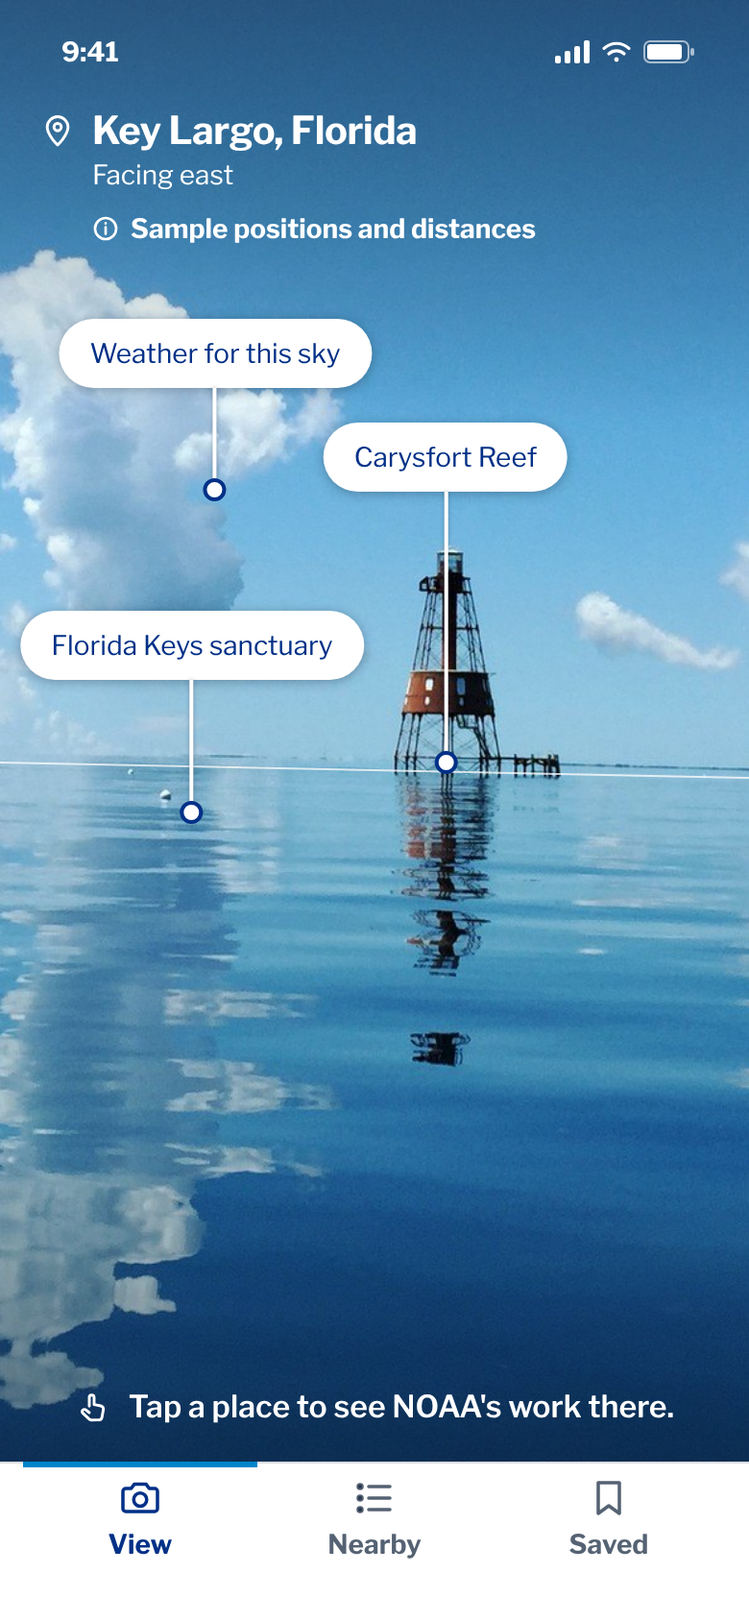
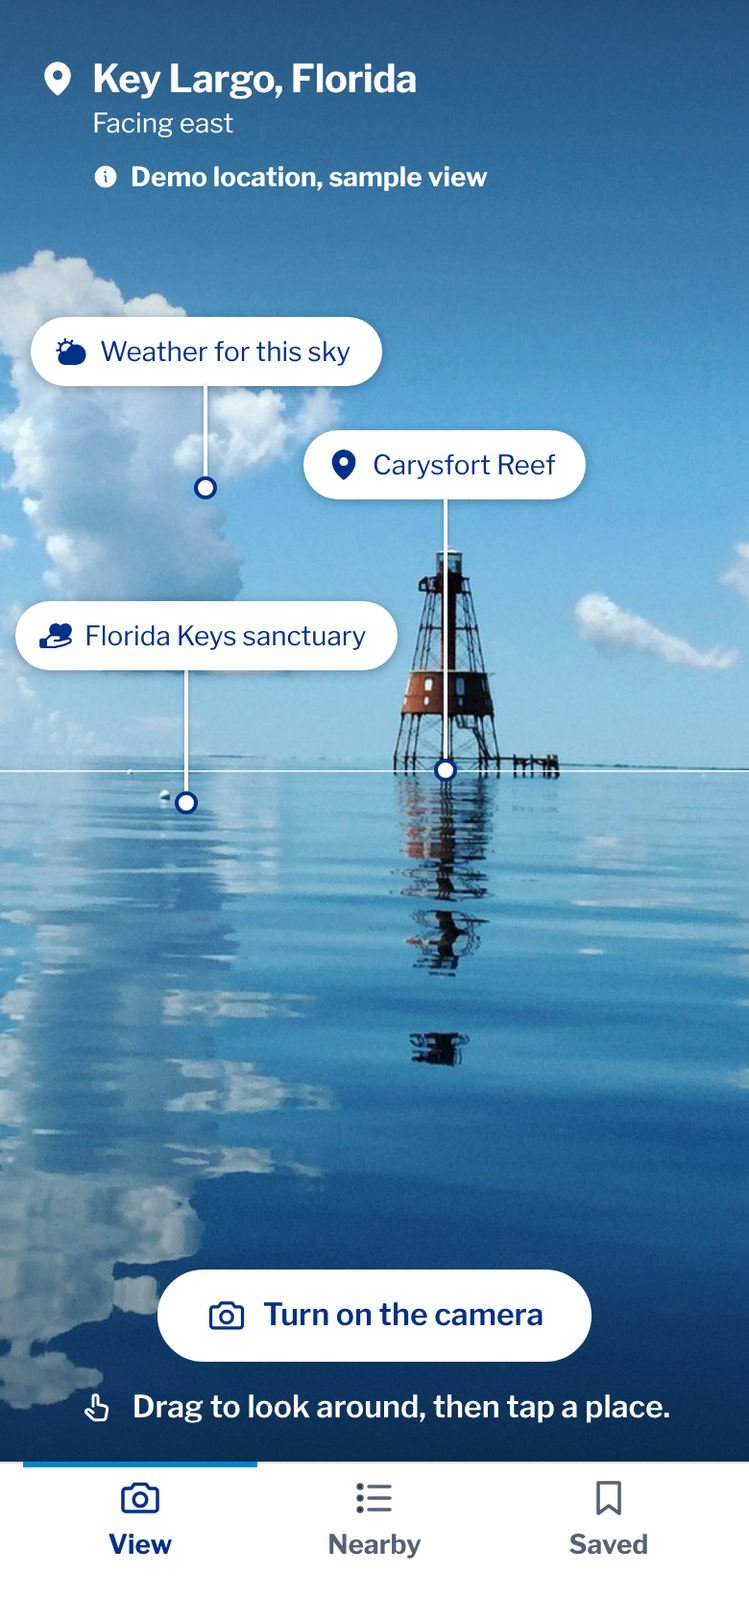
Horizon: a start screen, Nearby as cards, a photo of your horizon
Horizon now opens on a start screen instead of the Key Largo sample: what the
labels show, three steps, and why it asks for the camera, with Turn on the
camera and Try the sample view first. Nothing turns on until you choose. Nearby
follows the website's descent: a photo of your horizon where there is one, the
Sky on Atmospheric haze (the forecast, sunrise and sunset side by side, the
instruments) and the Sea on Deep ocean, each place on its own card. The Los
Angeles photo slot stays empty until a photo is sourced. The website's app
screenshot is the current sample view.

Claude-Session: https://claude.ai/code/session_01VtQuQ34UCohJdqjaP6mgAg

diff --git a/horizon/index.html b/horizon/index.html
@@ -56,6 +56,7 @@
   <section class="panel" id="nearby" hidden aria-labelledby="nb-t">
     <h1 id="nb-t" class="t-title" tabindex="-1">Nearby</h1>
     <p class="nb-sub t-meta" id="nb-sub">NOAA's work around Key Largo, Florida, the demo location</p>
+    <figure class="nb-photo" id="nb-photo" hidden><img alt=""><figcaption class="t-meta"></figcaption></figure>
     <div class="nb-groups" id="nb-list"></div>
     <p class="nb-state t-meta" id="nb-state" role="status" hidden></p>
     <button class="btn secondary nb-retry" type="button" id="nb-retry" hidden>Try again</button>
@@ -69,19 +70,37 @@
     <p class="sv-empty t-body" id="sv-empty" hidden>Nothing saved yet. Open a place and tap Save to keep it here.</p>
   </section>
 
-  <section class="sheet intro" id="intro" hidden aria-labelledby="in-t">
-    <div class="grab"></div>
-    <h2 id="in-t" class="t-title" tabindex="-1">See NOAA's work on your horizon</h2>
-    <p class="in-text t-body">Hold your phone up to the sky or the sea. Labels show the forecast, weather stations, radar, tides, marine sanctuaries and the sun, each in its real direction.</p>
-    <p class="in-note t-meta">Horizon asks for your camera and location only when you turn the camera on.</p>
-    <button class="btn" type="button" id="intro-go">Start looking</button>
-  </section>
-
   <nav class="tabs" aria-label="Horizon">
     <a href="index.html" id="tab-view" aria-current="page"><svg viewBox="0 0 24 24" fill="none" stroke="currentColor" stroke-width="1.75" stroke-linejoin="round" aria-hidden="true"><path d="M3 8.5A1.5 1.5 0 0 1 4.5 7h2.8l1.6-2.2h6.2L16.7 7h2.8A1.5 1.5 0 0 1 21 8.5v9A1.5 1.5 0 0 1 19.5 19h-15A1.5 1.5 0 0 1 3 17.5z"/><circle cx="12" cy="12.8" r="3.4"/></svg>View</a>
     <a href="#nearby" id="tab-nearby"><svg viewBox="0 0 24 24" fill="none" stroke="currentColor" stroke-width="1.75" stroke-linecap="round" aria-hidden="true"><path d="M9 6h11M9 12h11M9 18h11"/><circle cx="4.5" cy="6" r="1" fill="currentColor"/><circle cx="4.5" cy="12" r="1" fill="currentColor"/><circle cx="4.5" cy="18" r="1" fill="currentColor"/></svg>Nearby</a>
     <a href="#saved" id="tab-saved"><svg viewBox="0 0 24 24" fill="none" stroke="currentColor" stroke-width="1.75" stroke-linejoin="round" aria-hidden="true"><path d="M6.5 4h11v16l-5.5-4-5.5 4z"/></svg>Saved</a>
   </nav>
+  <!-- The start screen: what Horizon does and why it asks for the camera, before anything turns on -->
+  <section class="start" id="intro" hidden aria-labelledby="in-t">
+    <div class="st-scene" aria-hidden="true">
+      <svg class="st-art" viewBox="0 0 390 250" preserveAspectRatio="xMidYMax slice" aria-hidden="true" focusable="false"><rect width="390" height="170" fill="#DCEBF5"/><rect y="170" width="390" height="80" fill="#003087"/><g transform="translate(286 170) scale(0.36)"><path d="M-62 0 L-26 -226" fill="none" stroke="#003087" stroke-width="1.5" stroke-linecap="round" stroke-linejoin="round" vector-effect="non-scaling-stroke"/><path d="M62 0 L26 -226" fill="none" stroke="#003087" stroke-width="1.5" stroke-linecap="round" stroke-linejoin="round" vector-effect="non-scaling-stroke"/><path d="M-62 0 L46.1 -100M62 0 L-46.1 -100" fill="none" stroke="#003087" stroke-width="1" stroke-linecap="round" stroke-linejoin="round" vector-effect="non-scaling-stroke"/><path d="M-46.1 -100 L26 -226M46.1 -100 L-26 -226" fill="none" stroke="#003087" stroke-width="1" stroke-linecap="round" stroke-linejoin="round" vector-effect="non-scaling-stroke"/><rect x="-34" y="-184" width="68" height="34" fill="#FFFFFF" stroke="#003087" stroke-width="1.4" vector-effect="non-scaling-stroke"/><path d="M-42 -184 L42 -184" fill="none" stroke="#003087" stroke-width="1.5" stroke-linecap="round" stroke-linejoin="round" vector-effect="non-scaling-stroke"/><path d="M-36 -226 L36 -226" fill="none" stroke="#003087" stroke-width="1.5" stroke-linecap="round" stroke-linejoin="round" vector-effect="non-scaling-stroke"/><rect x="-14" y="-256" width="28" height="30" fill="#003087"/><path d="M-16 -256Q0 -276 16 -256Z" fill="#FFFFFF" stroke="#003087" stroke-width="1.2" stroke-linecap="round" stroke-linejoin="round" vector-effect="non-scaling-stroke"/><path d="M-62 0 L-68 52M0 0 L0 52M62 0 L68 52" fill="none" stroke="#FFFFFF" stroke-width="1.2" stroke-linecap="round" stroke-linejoin="round" vector-effect="non-scaling-stroke"/></g><g transform="translate(100 170) scale(0.44)"><g transform="translate(-191.2 -196.2) scale(3.0)"><path stroke-width=".28691463" stroke-linecap="round" stroke-linejoin="round" fill="none" stroke="#003087" d="M38.55 59.7 38.603956 59.42531 38.76559 59.15179 39.03421 58.88062 39.40867 58.61296 39.88736 58.349954 40.468236 58.09273 41.148809 57.84239 41.92616 57.6 42.796968 57.366605 43.757497 57.143205 44.80364 56.930749 45.93091 56.730154 47.134489 56.542276 48.40921 56.367918 49.74963 56.20783 51.15 56.062696 52.604326 55.933137 54.106378 55.819707 55.649728 55.722894 57.22776 55.643114 58.833726 55.5807 60.46074 55.53593 62.10184 55.50899 63.75 55.5 65.398159 55.50899 67.03926 55.53593 68.666278 55.5807 70.27224 55.643114 71.85027 55.722894 73.39362 55.819707 74.895679 55.933137 76.35 56.062696 77.75037 56.20783 79.09079 56.367918 80.36552 56.542276 81.56909 56.730154 82.696369 56.930749 83.74251 57.143205 84.70303 57.366605 85.57384 57.6 86.3512 57.84239 87.03176 58.09273 87.61264 58.349954 88.09133 58.61296 88.46579 58.88062 88.73441 59.15179 88.89604 59.42531 88.95 59.7"/><path stroke-width=".38938413" stroke-linecap="round" stroke-linejoin="round" fill="none" stroke="#003087" d="M88.95 59.7 88.89604 59.974695 88.73441 60.24821 88.46579 60.51938 88.09133 60.78704 87.61264 61.050046 87.03176 61.30727 86.3512 61.557615 85.57384 61.8 84.70303 62.033395 83.74251 62.256799 82.696369 62.469255 81.56909 62.66985 80.36552 62.857728 79.09079 63.032087 77.75037 63.192174 76.35 63.337308 74.895679 63.466867 73.39362 63.580297 71.85027 63.677106 70.27224 63.75689 68.666278 63.819299 67.03926 63.864068 65.398159 63.891008 63.75 63.9 62.10184 63.891008 60.46074 63.864068 58.833726 63.819299 57.22776 63.75689 55.649728 63.677106 54.106378 63.580297 52.604326 63.466867 51.15 63.337308 49.74963 63.192174 48.40921 63.032087 47.134489 62.857728 45.93091 62.66985 44.80364 62.469255 43.757497 62.256799 42.796968 62.033395 41.92616 61.8 41.148809 61.557615 40.468236 61.30727 39.88736 61.050046 39.40867 60.78704 39.03421 60.51938 38.76559 60.24821 38.603956 59.974695 38.55 59.7"/><path stroke-width=".20493903" stroke-linecap="round" stroke-linejoin="round" fill="none" stroke="#003087" d="M88.70476 61.964529 88.451389 62.211359 88.1102 62.455236 87.68242 62.69529 87.169559 62.930665 86.57344 63.16053 85.896198 63.384069 85.14021 63.60048 84.30819 63.808996 83.40309 64.00888 82.42812 64.19942 81.38675 64.37993 80.282688 64.54978 79.11985 64.70836 77.902378 64.85511 76.63458 64.98951 75.32099 65.11107 73.96627 65.21937 72.575229 65.314029 71.15281 65.39469 69.70408 65.46108 68.23418 65.51297 66.74834 65.55016 65.25184 65.57253 63.75 65.58 62.24816 65.57253 60.751665 65.55016 59.265825 65.51297 57.795927 65.46108 56.34719 65.39469 54.924776 65.314029 53.53373 65.21937 52.179006 65.11107 50.865415 64.98951 49.597627 64.85511 48.38015 64.70836 47.21731 64.54978 46.113248 64.37993 45.07188 64.19942 44.096914 64.00888 43.191808 63.808996 42.359788 63.60048 41.60381 63.384069 40.92656 63.16053 40.33044 62.930665 39.81758 62.69529 39.3898 62.455236 39.048616 62.211359 38.795248 61.964529"/><path stroke-width=".43037195" stroke-linecap="round" stroke-linejoin="round" fill="none" stroke="#003087" d="M38.55 59.7 38.97 65.37"/><path stroke-width=".63531097" stroke-linecap="round" stroke-linejoin="round" fill="none" stroke="#003087" d="M88.95 59.7 88.53 65.37"/><path stroke-width=".43037195" stroke-linecap="round" stroke-linejoin="round" fill="none" stroke="#003087" d="M63.75 69.57 62.93922 69.56775 62.12931 69.561008 61.321138 69.549777 60.51556 69.534069 59.71345 69.5139 58.91566 69.489299 58.12305 69.46028 57.336465 69.42689 56.556749 69.38915 55.78473 69.34711 55.021245 69.300807 54.267107 69.2503 53.52312 69.195629 52.790086 69.13686 52.06879 69.074069 51.36 69.00731 50.66448 68.936649 49.98297 68.862178 49.316205 68.78396 48.66489 68.70209 48.029737 68.616649 47.41141 68.527729 46.81058 68.43543 46.227895 68.33985 45.663969 68.24109 45.11941 68.13925 44.594804 68.034458 44.090707 67.926799 43.60766 67.81641 43.146184 67.70339 42.706769 67.58788 42.28989 67.47 41.895994 67.34987 41.525495 67.227619 41.178796 67.10337 40.856267 66.97727 40.55825 66.84945 40.285074 66.72005 40.037019 66.589199 39.814359 66.45704 39.61733 66.32372 39.44614 66.18938 39.30098 66.05416 39.181997 65.91821 39.08932 65.78167 39.023057 65.64469 38.98327 65.50742 38.97 65.37"/><path stroke-width=".63531097" stroke-linecap="round" stroke-linejoin="round" fill="none" stroke="#003087" d="M88.53 65.37 88.51673 65.50742 88.476947 65.64469 88.410678 65.78167 88.318 65.91821 88.19902 66.05416 88.053859 66.18938 87.882678 66.32372 87.68564 66.45704 87.46298 66.589199 87.21493 66.72005 86.94175 66.84945 86.64374 66.97727 86.321208 67.10337 85.97451 67.227619 85.60401 67.34987 85.210109 67.47 84.79323 67.58788 84.35382 67.70339 83.89234 67.81641 83.409297 67.926799 82.9052 68.034458 82.38059 68.13925 81.83603 68.24109 81.2721 68.33985 80.689418 68.43543 80.08859 68.527729 79.47027 68.616649 78.835109 68.70209 78.1838 68.78396 77.51703 68.862178 76.83552 68.936649 76.14 69.00731 75.43121 69.074069 74.709918 69.13686 73.97688 69.195629 73.232898 69.2503 72.47876 69.300807 71.71527 69.34711 70.94325 69.38915 70.163539 69.42689 69.37695 69.46028 68.584339 69.489299 67.78655 69.5139 66.984439 69.534069 66.17886 69.549777 65.37069 69.561008 64.560779 69.56775 63.75 69.57"/><path stroke-width=".20493903" stroke-linecap="round" stroke-linejoin="round" fill="none" stroke="#003087" d="M82.125 64.88421V67.557888"/><path stroke-width=".20493903" stroke-linecap="round" stroke-linejoin="round" fill="none" stroke="#003087" d="M84.54 64.38356V67.02546"/><path stroke-width=".20493903" stroke-linecap="round" stroke-linejoin="round" fill="none" stroke="#003087" d="M86.64 63.766637V66.3488"/><path stroke-width=".43037195" stroke-linecap="round" stroke-linejoin="round" fill="none" stroke="#003087" d="M56.61 58.23 61.23 30.3"/><path stroke-width=".63531097" stroke-linecap="round" stroke-linejoin="round" fill="none" stroke="#003087" d="M71.52 58.44 66.585 30.3"/><path stroke-width=".38938413" stroke-linecap="round" stroke-linejoin="round" fill="none" stroke="#003087" d="M64.695 60.75 64.1175 30.93"/><path stroke-width=".28691463" stroke-linecap="round" stroke-linejoin="round" fill="none" stroke="#003087" d="M57.06158 55.5 64.61366 56.55 71.0044 55.5"/><path stroke-width=".28691463" stroke-linecap="round" stroke-linejoin="round" fill="none" stroke="#003087" d="M59.753686 39.225 64.29848 40.275 68.15021 39.225"/><path stroke-width=".20493903" stroke-linecap="round" stroke-linejoin="round" fill="none" stroke="#003087" d="M59.753686 39.225 64.13783 31.98"/><path stroke-width=".20493903" stroke-linecap="round" stroke-linejoin="round" fill="none" stroke="#003087" d="M64.29848 40.275 61.12579 30.93"/><path stroke-width=".20493903" stroke-linecap="round" stroke-linejoin="round" fill="none" stroke="#003087" d="M64.278148 39.225 66.69549 30.93"/><path stroke-width=".20493903" stroke-linecap="round" stroke-linejoin="round" fill="none" stroke="#003087" d="M68.15021 39.225 64.1175 30.93"/><path stroke-width=".28691463" stroke-linecap="round" stroke-linejoin="round" fill="none" stroke="#003087" d="M57.899606 53.925 64.00566 54.975 63.75148 41.85 60.07066 40.8 57.899606 53.925"/><path stroke-width=".20493903" stroke-linecap="round" stroke-linejoin="round" fill="none" stroke="#003087" d="M58.62329 49.55 63.920934 50.6"/><path stroke-width=".20493903" stroke-linecap="round" stroke-linejoin="round" fill="none" stroke="#003087" d="M59.346975 45.175 63.836206 46.225"/><path stroke-width=".20493903" stroke-linecap="round" stroke-linejoin="round" fill="none" stroke="#003087" d="M60.952634 54.45 61.911069 41.325"/><path stroke-width=".38938413" stroke-linecap="round" stroke-linejoin="round" fill="none" stroke="#003087" d="M65.16066 54.975 70.15069 53.925 67.848918 40.8 64.90648 41.85 65.16066 54.975"/><path stroke-width=".20493903" stroke-linecap="round" stroke-linejoin="round" fill="none" stroke="#003087" d="M65.075939 50.6 69.38343 49.55"/><path stroke-width=".20493903" stroke-linecap="round" stroke-linejoin="round" fill="none" stroke="#003087" d="M64.9912 46.225 68.61617 45.175"/><path stroke-width=".20493903" stroke-linecap="round" stroke-linejoin="round" fill="none" stroke="#003087" d="M67.65568 54.45 66.3777 41.325"/><path stroke-width=".38938413" stroke-linecap="round" stroke-linejoin="round" fill="none" stroke="#003087" d="M67.4775 30.3 67.44696 30.423348 67.35586 30.544585 67.20575 30.661637 66.999217 30.7725 66.73977 30.87528 66.43187 30.968216 66.08078 31.049719 65.6925 31.118395 65.27368 31.173068 64.83148 31.2128 64.37348 31.236916 63.9075 31.245 63.44152 31.236916 62.983518 31.2128 62.54132 31.173068 62.1225 31.118395 61.734224 31.049719 61.38313 30.968216 61.07523 30.87528 60.81579 30.7725 60.60925 30.661637 60.459146 30.544585 60.368043 30.423348 60.3375 30.3 60.368043 30.176653 60.459146 30.055417 60.60925 29.938364 60.81579 29.8275 61.07523 29.72472 61.38313 29.631785 61.734224 29.550282 62.1225 29.481606 62.54132 29.426934 62.983518 29.3872 63.44152 29.363085 63.9075 29.355 64.37348 29.363085 64.83148 29.3872 65.27368 29.426934 65.6925 29.481606 66.08078 29.550282 66.43187 29.631785 66.73977 29.72472 66.999217 29.8275 67.20575 29.938364 67.35586 30.055417 67.44696 30.176653 67.4775 30.3"/><path stroke-width=".38938413" stroke-linecap="round" stroke-linejoin="round" fill="none" stroke="#003087" d="M63.9075 29.355V26.94"/><path stroke-width=".38938413" stroke-linecap="round" stroke-linejoin="round" fill="none" stroke="#003087" d="M54.09 27.465 73.83 26.415"/><path stroke-width=".28691463" stroke-linecap="round" stroke-linejoin="round" fill="none" stroke="#003087" d="M54.72 27.4335V23.8635"/><path stroke-width=".28691463" stroke-linecap="round" stroke-linejoin="round" fill="none" stroke="#003087" d="M51.99 23.0235C52.27 22.94475 52.935 22.586 53.67 22.551 54.405 22.516 55.84 22.73475 56.4 22.8135 56.96 22.89225 56.925 22.9885 57.03 23.0235"/><path stroke-width=".28691463" stroke-linecap="round" stroke-linejoin="round" fill="none" stroke="#003087" d="M51.99 23.0235C52.27 23.10225 52.935 23.461 53.67 23.496 54.405 23.531 55.84 23.31225 56.4 23.2335 56.96 23.15475 56.925 23.0585 57.03 23.0235"/><path stroke-width=".20493903" stroke-linecap="round" stroke-linejoin="round" fill="none" stroke="#003087" d="M57.03 23.0235 58.71 21.3435 58.815 23.9685 57.03 23.0235"/><path stroke-width=".20493903" stroke-linecap="round" stroke-linejoin="round" fill="none" stroke="#003087" d="M52.1475 23.0235 52.1314 23.539845 52.084199 24.021 52.00911 24.434178 51.91125 24.75122 51.79729 24.950522 51.675 25.0185 51.552709 24.950522 51.43875 24.75122 51.340894 24.434178 51.265806 24.021 51.2186 23.539845 51.2025 23.0235 51.2186 22.507157 51.265806 22.026 51.340894 21.612822 51.43875 21.29578 51.552709 21.096478 51.675 21.0285 51.79729 21.096478 51.91125 21.29578 52.00911 21.612822 52.084199 22.026 52.1314 22.507157 52.1475 23.0235"/><path stroke-width=".28691463" stroke-linecap="round" stroke-linejoin="round" fill="none" stroke="#003087" d="M73.2 26.4465V22.8765"/><path stroke-width=".28691463" stroke-linecap="round" stroke-linejoin="round" fill="none" stroke="#003087" d="M70.47 22.0365C70.75 21.95775 71.415 21.599 72.15 21.564 72.885 21.529 74.32 21.74775 74.88 21.8265 75.44 21.90525 75.405 22.0015 75.51 22.0365"/><path stroke-width=".28691463" stroke-linecap="round" stroke-linejoin="round" fill="none" stroke="#003087" d="M70.47 22.0365C70.75 22.11525 71.415 22.474 72.15 22.509 72.885 22.544 74.32 22.32525 74.88 22.2465 75.44 22.16775 75.405 22.0715 75.51 22.0365"/><path stroke-width=".20493903" stroke-linecap="round" stroke-linejoin="round" fill="none" stroke="#003087" d="M75.51 22.0365 77.19 20.3565 77.295 22.9815 75.51 22.0365"/><path stroke-width=".20493903" stroke-linecap="round" stroke-linejoin="round" fill="none" stroke="#003087" d="M70.6275 22.0365 70.6114 22.552844 70.56419 23.034 70.489109 23.447178 70.39125 23.764222 70.27729 23.963522 70.155 24.0315 70.03271 23.963522 69.91875 23.764222 69.82089 23.447178 69.745807 23.034 69.6986 22.552844 69.6825 22.0365 69.6986 21.520157 69.745807 21.039 69.82089 20.625823 69.91875 20.308779 70.03271 20.109478 70.155 20.0415 70.27729 20.109478 70.39125 20.308779 70.489109 20.625823 70.56419 21.039 70.6114 21.520157 70.6275 22.0365"/><path stroke-width=".28691463" stroke-linecap="round" stroke-linejoin="round" fill="none" stroke="#003087" d="M63.9075 26.94V21.48"/><path stroke-width=".28691463" stroke-linecap="round" stroke-linejoin="round" fill="none" stroke="#003087" d="M62.7 21.48V18.75H65.115V21.48H62.7"/><path d="M64.6425 20.0625C64.6425 20.5875 64.3975 20.85 63.9075 20.85 63.4175 20.85 63.1725 20.5875 63.1725 20.0625 63.1725 19.5375 63.4175 19.275 63.9075 19.275 64.3975 19.275 64.6425 19.5375 64.6425 20.0625Z" fill="#003087"/><path stroke-width=".28691463" stroke-linecap="round" stroke-linejoin="round" fill="none" stroke="#003087" d="M62.7 18.75 62.7232 18.545155 62.791917 18.348183 62.9035 18.16665 63.05367 18.007538 63.23665 17.876957 63.445409 17.779927 63.67193 17.720175 63.9075 17.7 64.143077 17.720175 64.36959 17.779927 64.578357 17.876957 64.76133 18.007538 64.9115 18.16665 65.02309 18.348183 65.0918 18.545155 65.115 18.75"/></g></g></svg>
+      <span class="st-mk" style="--x: 40%; --y: 26px"><span class="pill t-meta" data-icon="weather">Weather for this sky</span><span class="lead" style="height: 44px"></span><span class="dot"></span></span>
+      <span class="st-mk" style="--x: 25.6%; --y: 74px"><span class="pill t-meta" data-icon="tide">Tides</span><span class="lead" style="height: 18px"></span><span class="dot"></span></span>
+      <span class="st-mk" style="--x: 52%; --y: 112px"><span class="pill t-meta" data-icon="care">Marine sanctuary</span><span class="lead" style="height: 20px"></span><span class="dot"></span></span>
+    </div>
+    <div class="st-body">
+      <h1 id="in-t" class="t-title" tabindex="-1">See NOAA's work on your horizon</h1>
+      <ol class="st-steps">
+        <li><span class="n">1</span><span class="t-body">Hold your phone up to the sky or the sea.</span></li>
+        <li><span class="n">2</span><span class="t-body">Labels show NOAA's work in that direction: the forecast, tides, sanctuaries and the sun.</span></li>
+        <li><span class="n">3</span><span class="t-body">Tap a label to see what NOAA does there.</span></li>
+      </ol>
+      <div class="st-why">
+        <h2 class="t-body b">Why the camera?</h2>
+        <p class="t-meta">Horizon puts each label over what your camera sees, where the place really is. The video stays on your phone. Your location finds the forecast, tides and sanctuary nearest you.</p>
+      </div>
+      <div class="st-acts">
+        <button class="btn" type="button" id="intro-go"><svg viewBox="0 0 24 24" fill="none" stroke="currentColor" stroke-width="1.75" stroke-linejoin="round" aria-hidden="true"><path d="M3 8.5A1.5 1.5 0 0 1 4.5 7h2.8l1.6-2.2h6.2L16.7 7h2.8A1.5 1.5 0 0 1 21 8.5v9A1.5 1.5 0 0 1 19.5 19h-15A1.5 1.5 0 0 1 3 17.5z"/><circle cx="12" cy="12.8" r="3.4"/></svg>Turn on the camera</button>
+        <button class="btn secondary" type="button" id="intro-sample">Try the sample view first</button>
+      </div>
+      <p class="st-small t-meta">Student concept, not an official NOAA app.</p>
+    </div>
+  </section>
 </div>
 
 <template id="tpl-carysfort-reef">

diff --git a/horizon/app.js b/horizon/app.js
@@ -379,7 +379,7 @@
     } catch (_) { /* outside the NWS area: keep the coordinates */ }
   }
 
-  startBtn.addEventListener('click', async () => {
+  async function turnOn() {
     const DOE = window.DeviceOrientationEvent;
     const motion = DOE && typeof DOE.requestPermission === 'function'
       ? DOE.requestPermission().catch(() => 'denied')
@@ -393,7 +393,8 @@
     }
     await motion;
     setTimeout(updateText, 1500);
-  });
+  }
+  startBtn.addEventListener('click', turnOn);
 
   // Look around by dragging (sample view, or a camera without a compass).
   screen.addEventListener('pointerdown', (e) => {
@@ -596,71 +597,122 @@
     li.append(b);
     return li;
   }
+  // One Nearby card: the same parts as a row, on its own white card.
+  function card(id, p, title, line, live, { face = true, big = false } = {}) {
+    const li = row(id, p, title, line, live, face);
+    const b = li.querySelector('button');
+    b.className = `nc${big ? ' big' : ''}${iconName(id, p) === 'alert' ? ' is-alert' : ''}`;
+    return li;
+  }
+  // Sunrise and sunset share one card: two halves, each opening its own preview.
+  function sunPair(ids) {
+    const li = document.createElement('li');
+    const pair = document.createElement('div');
+    pair.className = 'nc-pair';
+    for (const id of ids) {
+      const p = PLACES[id];
+      const half = row(id, p, p.name, `${capital(dayWord(p.at, S.tz))}, toward the ${G.dir8(p.bearing)}`, clock(p.at, S.tz)).querySelector('button');
+      half.className = 'nc';
+      pair.append(half);
+    }
+    li.append(pair);
+    return li;
+  }
   function setLive(li, text) {
     const n = li.querySelector('.now');
     if (n) n.textContent = text;
   }
 
-  // A titled group of rows: Weather alerts, Sky, Sea, Instruments.
-  function group(key, title, note, rows, extra) {
-    if (!rows.length && !extra) return null;
+  // A section of Nearby: Weather alerts, then the Sky on Atmospheric haze, then the Sea on Deep ocean.
+  function group(key, title, note, cards, extra) {
+    if (!cards.length && !extra) return null;
     const sec = document.createElement('section');
-    sec.className = 'nb-group';
+    sec.className = 'nb-sec';
     sec.dataset.group = key;
-    sec.innerHTML = `<h2 class="nb-h t-row"></h2>${note ? '<p class="nb-note t-meta"></p>' : ''}${rows.length ? '<ul class="nb-rows"></ul>' : ''}`;
+    sec.innerHTML = `<h2 class="nb-h t-title"></h2>${note ? '<p class="nb-note t-meta"></p>' : ''}${cards.length ? '<ul class="nb-cards"></ul>' : ''}`;
     sec.querySelector('h2').textContent = title;
     if (note) sec.querySelector('.nb-note').textContent = note;
-    if (rows.length) sec.querySelector('ul').append(...rows);
-    if (extra) sec.append(extra);
+    if (cards.length) sec.querySelector('ul').append(...cards);
+    if (extra) sec.append(...[].concat(extra));
     return sec;
+  }
+  // A photo of the horizon where you are, when there is one: the demo spot, and Los Angeles.
+  const LOCAL = [
+    { lat: DEMO.lat, lon: DEMO.lon, radius: 40, src: '../images/carysfort-lighthouse.jpg', alt: 'A calm sea with Carysfort Lighthouse on the horizon', cap: 'Your horizon from Key Largo, facing east. Photo: Nancy Diersing/NOAA' },
+    { lat: 34.05, lon: -118.25, radius: 60, src: '../images/local/los-angeles-horizon.jpg', alt: 'The sea off Los Angeles', cap: 'Your horizon: the sea off Los Angeles.' },
+  ];
+  const nbPhoto = $('#nb-photo');
+  function showLocalPhoto(v) {
+    const L = LOCAL.find((x) => G.miles(v, x) <= x.radius);
+    const img = nbPhoto.querySelector('img');
+    if (!L) { nbPhoto.hidden = true; img.removeAttribute('src'); return; }
+    if (img.getAttribute('src') === L.src) return;
+    nbPhoto.hidden = true;
+    img.onload = () => { nbPhoto.hidden = false; };
+    img.onerror = () => { nbPhoto.hidden = true; };
+    img.alt = L.alt;
+    nbPhoto.querySelector('figcaption').textContent = L.cap;
+    img.src = L.src;
   }
   function renderNearby() {
     if (nbPanel.hidden) return;
     nbState.hidden = NB.status !== 'loading';
     nbState.textContent = "Finding NOAA's work near you…";
     const v = S.viewer;
+    showLocalPhoto(v);
     const where = (p) => lower(G.distanceText(v, p));
     const byMiles = (a, b) => (a[1].miles ?? 0) - (b[1].miles ?? 0);
     const entries = Object.entries(PLACES);
 
-    const alerts = S.alerts.map((a) => row(a.id, PLACES[a.id] || a, a.name, `${a.ends ? capital(untilText(a.ends, a.tz)) : 'In effect now'}, National Weather Service`, null, false));
+    const alerts = S.alerts.map((a) => card(a.id, PLACES[a.id] || a, a.name, `${a.ends ? capital(untilText(a.ends, a.tz)) : 'In effect now'}, National Weather Service`, null, { face: false }));
 
-    const sky = [row('weather', PLACES.weather, 'Weather for this sky', NB.forecast || `Forecast for ${v.name}`, null)];
-    for (const id of ['sunrise', 'sunset'].filter((k) => PLACES[k]).sort((a, b) => PLACES[a].at - PLACES[b].at)) {
-      const p = PLACES[id];
-      sky.push(row(id, p, p.name, `${capital(dayWord(p.at, S.tz))} at ${clock(p.at, S.tz)}, toward the ${G.dir8(p.bearing)}`, null));
-    }
-
-    const sea = entries
-      .filter(([id, p]) => !p.away && !p.far && ((p.found && SEA.has(p.kind)) || id === 'carysfort-reef' || id === 'florida-keys-sanctuary'))
-      .sort(byMiles)
-      .map(([id, p]) => {
-        if (id === 'florida-keys-sanctuary') return row(id, p, p.name, 'Marine sanctuary, the water in front of you', null);
-        if (p.kind === 'tide') return row(id, p, p.name, `Tide station, ${where(p)}`, tideText(p) || 'No tide predictions right now');
-        if (p.kind === 'sanctuary') return row(id, p, p.name, `Marine sanctuary, ${where(p)}`, null);
-        return row(id, p, p.name, `${p.what}, ${where(p)}`, null);
-      });
+    const sky = [card('weather', PLACES.weather, 'Weather for this sky', `Forecast for ${v.name}`, NB.forecast || 'Loading the forecast…', { big: true })];
+    const sun = ['sunrise', 'sunset'].filter((k) => PLACES[k]).sort((a, b) => PLACES[a].at - PLACES[b].at);
+    if (sun.length === 2) sky.push(sunPair(sun));
+    else for (const id of sun) sky.push(card(id, PLACES[id], PLACES[id].name, `${capital(dayWord(PLACES[id].at, S.tz))}, toward the ${G.dir8(PLACES[id].bearing)}`, clock(PLACES[id].at, S.tz)));
 
     const instruments = entries
       .filter(([, p]) => p.found && (p.kind === 'station' || p.kind === 'radar'))
       .sort(byMiles)
       .map(([id, p]) => (p.kind === 'station'
-        ? row(id, p, p.name, `Weather station, ${where(p)}`, p.reading ? readingText(p.reading) : 'No recent reading')
-        : row(id, p, p.name, `${p.what}, ${where(p)}`, null)));
-    let failed = null;
+        ? card(id, p, p.name, `Weather station, ${where(p)}`, p.reading ? readingText(p.reading) : 'No recent reading')
+        : card(id, p, p.name, `${p.what}, ${where(p)}`, null)));
+    const extra = [];
+    if (instruments.length || (NB.status === 'ready' && NB.error)) {
+      const h = document.createElement('h3');
+      h.className = 'nb-sub2 t-body b';
+      h.textContent = 'Measuring the weather near you';
+      extra.push(h);
+    }
+    if (instruments.length) {
+      const ul = document.createElement('ul');
+      ul.className = 'nb-cards';
+      ul.append(...instruments);
+      extra.push(ul);
+    }
     if (NB.status === 'ready' && NB.error) {
-      failed = document.createElement('div');
+      const failed = document.createElement('div');
       failed.className = 'nb-failed';
       failed.innerHTML = '<p class="t-meta">Weather stations and radar didn\'t load.</p>';
       nbRetry.hidden = false;
       failed.append(nbRetry);
+      extra.push(failed);
     } else nbRetry.hidden = true;
+
+    const sea = entries
+      .filter(([id, p]) => !p.away && !p.far && ((p.found && SEA.has(p.kind)) || id === 'carysfort-reef' || id === 'florida-keys-sanctuary'))
+      .sort(byMiles)
+      .map(([id, p]) => {
+        if (id === 'florida-keys-sanctuary') return card(id, p, p.name, 'Marine sanctuary, the water in front of you', null);
+        if (p.kind === 'tide') return card(id, p, p.name, `Tide station, ${where(p)}`, tideText(p) || 'No tide predictions right now');
+        if (p.kind === 'sanctuary') return card(id, p, p.name, `Marine sanctuary, ${where(p)}`, null);
+        return card(id, p, p.name, `${p.what}, ${where(p)}`, null);
+      });
 
     nbList.replaceChildren(...[
       group('alerts', 'Weather alerts', null, alerts),
-      group('sky', 'Sky', 'The forecast and the sun, for where you are', sky),
+      group('sky', 'Sky', 'The forecast, the sun and the instruments, for where you are', sky, extra),
       group('sea', 'Sea', "NOAA's work on the water closest to you", sea),
-      group('instruments', 'Instruments', 'Stations and radar measuring the weather near you', instruments, failed),
     ].filter(Boolean));
   }
   nbRetry.addEventListener('click', () => loadNearby(true));
@@ -1032,23 +1084,31 @@
   }
   setInterval(() => { if (!document.hidden) loadAlerts(); }, 5 * 60 * 1000);
 
-  // The first time you open Horizon, a short note says what it does. It is remembered on the phone.
-  const INTRO_KEY = 'horizon:intro';
+  // The start screen: Horizon opens on it, says what it does and why it asks for the camera,
+  // and nothing turns on until you choose. It is skipped for a shared link or a return to the camera.
   function openIntro() {
     intro.hidden = false;
     screen.classList.add('has-intro');
+    const cam = canCamera && isTouch;
+    $('#intro-go').hidden = !cam;
+    $('#intro-sample').textContent = cam ? 'Try the sample view first' : 'See the sample view';
+    $('#intro-sample').className = cam ? 'btn secondary' : 'btn';
     $('#in-t').focus({ preventScroll: true });
   }
   function closeIntro() {
     if (intro.hidden) return;
     intro.hidden = true;
     screen.classList.remove('has-intro');
-    try { localStorage.setItem(INTRO_KEY, '1'); } catch (_) { /* no storage */ }
   }
   $('#intro-go').addEventListener('click', () => {
     closeIntro();
+    turnOn();
+  });
+  $('#intro-sample').addEventListener('click', () => {
+    closeIntro();
     (startBtn.hidden ? screen : startBtn).focus({ preventScroll: true });
   });
+  for (const pill of intro.querySelectorAll('[data-icon]')) pill.insertAdjacentHTML('afterbegin', svgOf(pill.dataset.icon));
 
   async function loadForecast() {
     const what = sheetBody.querySelector('[data-forecast]');
@@ -1104,8 +1164,6 @@
   updateSun(true);
   route();
   loadAlerts();
-  let introSeen = false;
-  try { introSeen = localStorage.getItem(INTRO_KEY) === '1'; } catch (_) { /* no storage */ }
-  if (!introSeen && !location.hash && !(wasLive && canCamera && returning)) openIntro();
+  if (!location.hash && !(wasLive && canCamera && returning)) openIntro();
   requestAnimationFrame(tick);
 })();

diff --git a/css/app.css b/css/app.css
@@ -107,12 +107,6 @@ ul { margin: 0; padding: 0; list-style: none; }
 .pv img { width: 72px; height: 72px; object-fit: cover; border-radius: var(--r-thumb); }
 .sheet .office { margin-top: var(--s-3); }
 .sheet .btn { margin-top: var(--s-4); width: 100%; }
-/* the first-run note: a sheet over the sample view */
-.intro { z-index: 22; }
-.intro h2, .intro h2:focus-visible { margin-top: 2px; outline: none; }
-.intro .in-text { margin-top: var(--s-2); }
-.intro .in-note { margin-top: var(--s-3); color: var(--c-ink-2); }
-
 /* Save and Share under the main button */
 .acts { display: grid; grid-template-columns: 1fr 1fr; gap: var(--s-2); margin-top: var(--s-2); }
 .sheet .acts .btn { margin-top: 0; width: auto; padding: 0 var(--s-3); }
@@ -132,14 +126,7 @@ ul { margin: 0; padding: 0; list-style: none; }
 .nb-sub { margin-top: var(--s-1); color: var(--c-ink-2); }
 .nb-rows { margin-top: var(--s-4); border-top: 1px solid var(--c-rule); }
 .nb-rows li { border-bottom: 1px solid var(--c-rule); }
-/* Nearby comes in titled groups: Weather alerts, Sky, Sea, Instruments */
-.nb-group { margin-top: var(--s-6); }
-.nb-groups > .nb-group:first-child { margin-top: var(--s-5); }
-.nb-h { color: var(--c-ink); }
-.nb-note { margin-top: 2px; color: var(--c-ink-2); }
-.nb-group .nb-rows { margin-top: var(--s-3); }
-.nb-failed { margin-top: var(--s-3); color: var(--c-ink-2); }
-/* a row: the icon (outline for instruments, solid for public information), what it is, one line, a live reading */
+/* a row (Saved): the icon, what it is, one line, a live reading */
 .row { width: 100%; display: grid; grid-template-columns: 24px minmax(0, 1fr) 20px; gap: var(--s-4); align-items: start; padding: 14px 0; text-align: left; }
 .row .ic { width: 24px; height: 24px; color: var(--c-brand); }
 .row .ic svg { display: block; width: 24px; height: 24px; }
@@ -148,13 +135,76 @@ ul { margin: 0; padding: 0; list-style: none; }
 .row .t { display: block; color: var(--c-ink-2); }
 .row .now { color: var(--c-ink); }
 .row .chev { width: 20px; height: 20px; color: var(--c-ink-2); align-self: center; }
+/* Nearby, as the website's descent: a photo of your horizon, then the Sky on Atmospheric haze,
+   then the Sea on Deep ocean, each place on its own card */
+.nb-photo { margin: var(--s-5) 0 0; }
+.nb-photo[hidden] { display: none; }
+.nb-photo img { width: 100%; aspect-ratio: 16 / 9; object-fit: cover; border-radius: var(--r-thumb); }
+.nb-photo figcaption { margin-top: var(--s-2); color: var(--c-ink-2); }
+.nb-groups { margin: var(--s-6) -20px 0; }
+.nb-sec { padding: var(--s-6) 20px var(--s-7); }
+.nb-sec[data-group="alerts"] { padding-top: 0; padding-bottom: var(--s-6); }
+.nb-sec[data-group="sky"] { background: var(--c-data); }
+.nb-sec[data-group="sea"] { background: var(--c-brand); color: var(--c-ground); }
+.nb-h { display: flex; align-items: baseline; gap: var(--s-2); font: 700 24px/30px var(--font-ui); color: var(--c-ink); }
+.nb-sec[data-group="sea"] .nb-h { color: var(--c-ground); }
+.nb-note { margin-top: 2px; color: var(--c-ink-2); }
+.nb-sec[data-group="sea"] .nb-note { color: var(--c-on-dark-2); }
+.nb-sub2 { margin-top: var(--s-6); color: var(--c-ink); }
+.nb-cards { display: grid; gap: var(--s-2); margin-top: var(--s-4); }
+.nb-failed { margin-top: var(--s-3); color: var(--c-ink-2); }
+/* a card: the icon (outline for instruments, solid for public information), what it is, one line, a live reading */
+.nc { width: 100%; display: grid; grid-template-columns: 24px minmax(0, 1fr) 20px; gap: var(--s-3); align-items: start; padding: var(--s-4); text-align: left;
+  background: var(--c-ground); color: var(--c-ink); border-radius: var(--r-thumb); box-shadow: 0 1px 3px color-mix(in srgb, var(--c-ink) 18%, transparent); }
+.nc .ic { width: 24px; height: 24px; color: var(--c-brand); }
+.nc .ic svg { display: block; width: 24px; height: 24px; }
+.nc .ic.is-alert { color: var(--c-alert); }
+.nc b { display: block; color: var(--c-ink); }
+.nc .t { display: block; margin-top: 2px; color: var(--c-ink-2); }
+.nc .now { display: block; margin-top: var(--s-2); font: var(--f-app-body-b); color: var(--c-brand); }
+.nc .chev { width: 20px; height: 20px; color: var(--c-ink-2); align-self: center; }
+.nc.is-alert { box-shadow: inset 4px 0 0 var(--c-alert), 0 1px 3px color-mix(in srgb, var(--c-ink) 18%, transparent); }
+/* the forecast: the first card, with the forecast in large type */
+.nc.big .now { font: var(--f-app-row); color: var(--c-ink); }
+/* sunrise and sunset share one card, side by side */
+.nc-pair { display: grid; grid-template-columns: 1fr 1fr; background: var(--c-ground); border-radius: var(--r-thumb); box-shadow: 0 1px 3px color-mix(in srgb, var(--c-ink) 18%, transparent); }
+.nc-pair .nc { box-shadow: none; grid-template-columns: 24px minmax(0, 1fr); border-radius: 0; background: none; }
+.nc-pair .nc + .nc { border-left: 1px solid var(--c-rule); }
+.nc-pair .nc .chev { display: none; }
+.nc-pair .now { font: var(--f-app-row); color: var(--c-ink); }
+.nb-sec[data-group="sea"] + .nb-source, .nb-groups + .nb-state + .nb-retry + .nb-source { margin-top: 0; }
 .nb-state { margin-top: var(--s-4); color: var(--c-ink-2); }
 .nb-retry { margin-top: var(--s-3); }
 .nb-retry[hidden] { display: none; }
-.nb-source { margin-top: var(--s-6); color: var(--c-ink-2); }
+.nb-source { margin: 0 -20px calc(-1 * var(--s-6)); padding: 0 20px var(--s-6); background: var(--c-brand); color: var(--c-on-dark-2); }
+#nearby { padding-bottom: var(--s-6); }
 .sv-empty { margin-top: var(--s-5); color: var(--c-ink-2); }
 
 /* on a wide screen, the app sits in a phone-width column */
 @media (min-width: 600px) {
   .screen { box-shadow: 0 0 0 1px var(--c-rule-dark); }
 }
+
+/* The start screen: what Horizon does, and why it asks for the camera, before anything turns on */
+.start { position: absolute; z-index: 40; inset: 0; overflow-y: auto; overscroll-behavior: contain; touch-action: pan-y; user-select: text; -webkit-user-select: text; background: var(--c-ground); color: var(--c-ink); display: flex; flex-direction: column; }
+.start[hidden] { display: none; }
+.st-scene { position: relative; flex: none; height: calc(250px + env(safe-area-inset-top)); overflow: hidden; background: var(--c-data); }
+.st-art { position: absolute; left: 0; bottom: 0; width: 100%; height: 250px; }
+.st-mk { position: absolute; left: var(--x); bottom: calc(250px - var(--y)); transform: translate(-50%, 100%); display: flex; flex-direction: column; align-items: center; }
+.st-mk .pill { display: inline-flex; align-items: center; gap: 6px; height: 32px; padding: 0 var(--s-3) 0 10px; border-radius: var(--r-round); background: var(--c-ground); color: var(--c-brand); white-space: nowrap; box-shadow: 0 1px 6px color-mix(in srgb, var(--c-ink) 25%, transparent); }
+.st-mk .pill svg { width: 16px; height: 16px; flex: none; }
+.st-mk .lead { width: 2px; background: var(--c-brand); }
+.st-mk .dot { width: 10px; height: 10px; margin-top: -1px; border-radius: var(--r-round); background: var(--c-ground); border: 2px solid var(--c-brand); }
+.st-body { flex: 1 0 auto; padding: var(--s-6) 20px calc(var(--s-6) + env(safe-area-inset-bottom)); }
+.st-body h1, .st-body h1:focus-visible { outline: none; }
+.st-steps { display: grid; gap: var(--s-3); margin: var(--s-5) 0 0; padding: 0; list-style: none; }
+.st-steps li { display: grid; grid-template-columns: 28px minmax(0, 1fr); gap: var(--s-3); align-items: start; }
+.st-steps .n { display: inline-flex; align-items: center; justify-content: center; width: 28px; height: 28px; border-radius: var(--r-round); background: var(--c-brand); color: var(--c-ground); font: 700 14px/1 var(--font-ui); font-variant-numeric: tabular-nums; }
+.st-steps .t-body { padding-top: 2px; }
+.st-why { margin-top: var(--s-5); padding: var(--s-4); border-radius: var(--r-thumb); background: var(--c-data); }
+.st-why p { margin-top: var(--s-1); color: var(--c-ink); }
+.st-acts { display: grid; gap: var(--s-2); margin-top: var(--s-5); }
+.st-acts .btn svg { width: 22px; height: 22px; }
+.st-acts .btn[hidden] { display: none; }
+.st-small { margin-top: var(--s-4); color: var(--c-ink-2); text-align: center; }
+.screen.has-intro .tabs { visibility: hidden; }
